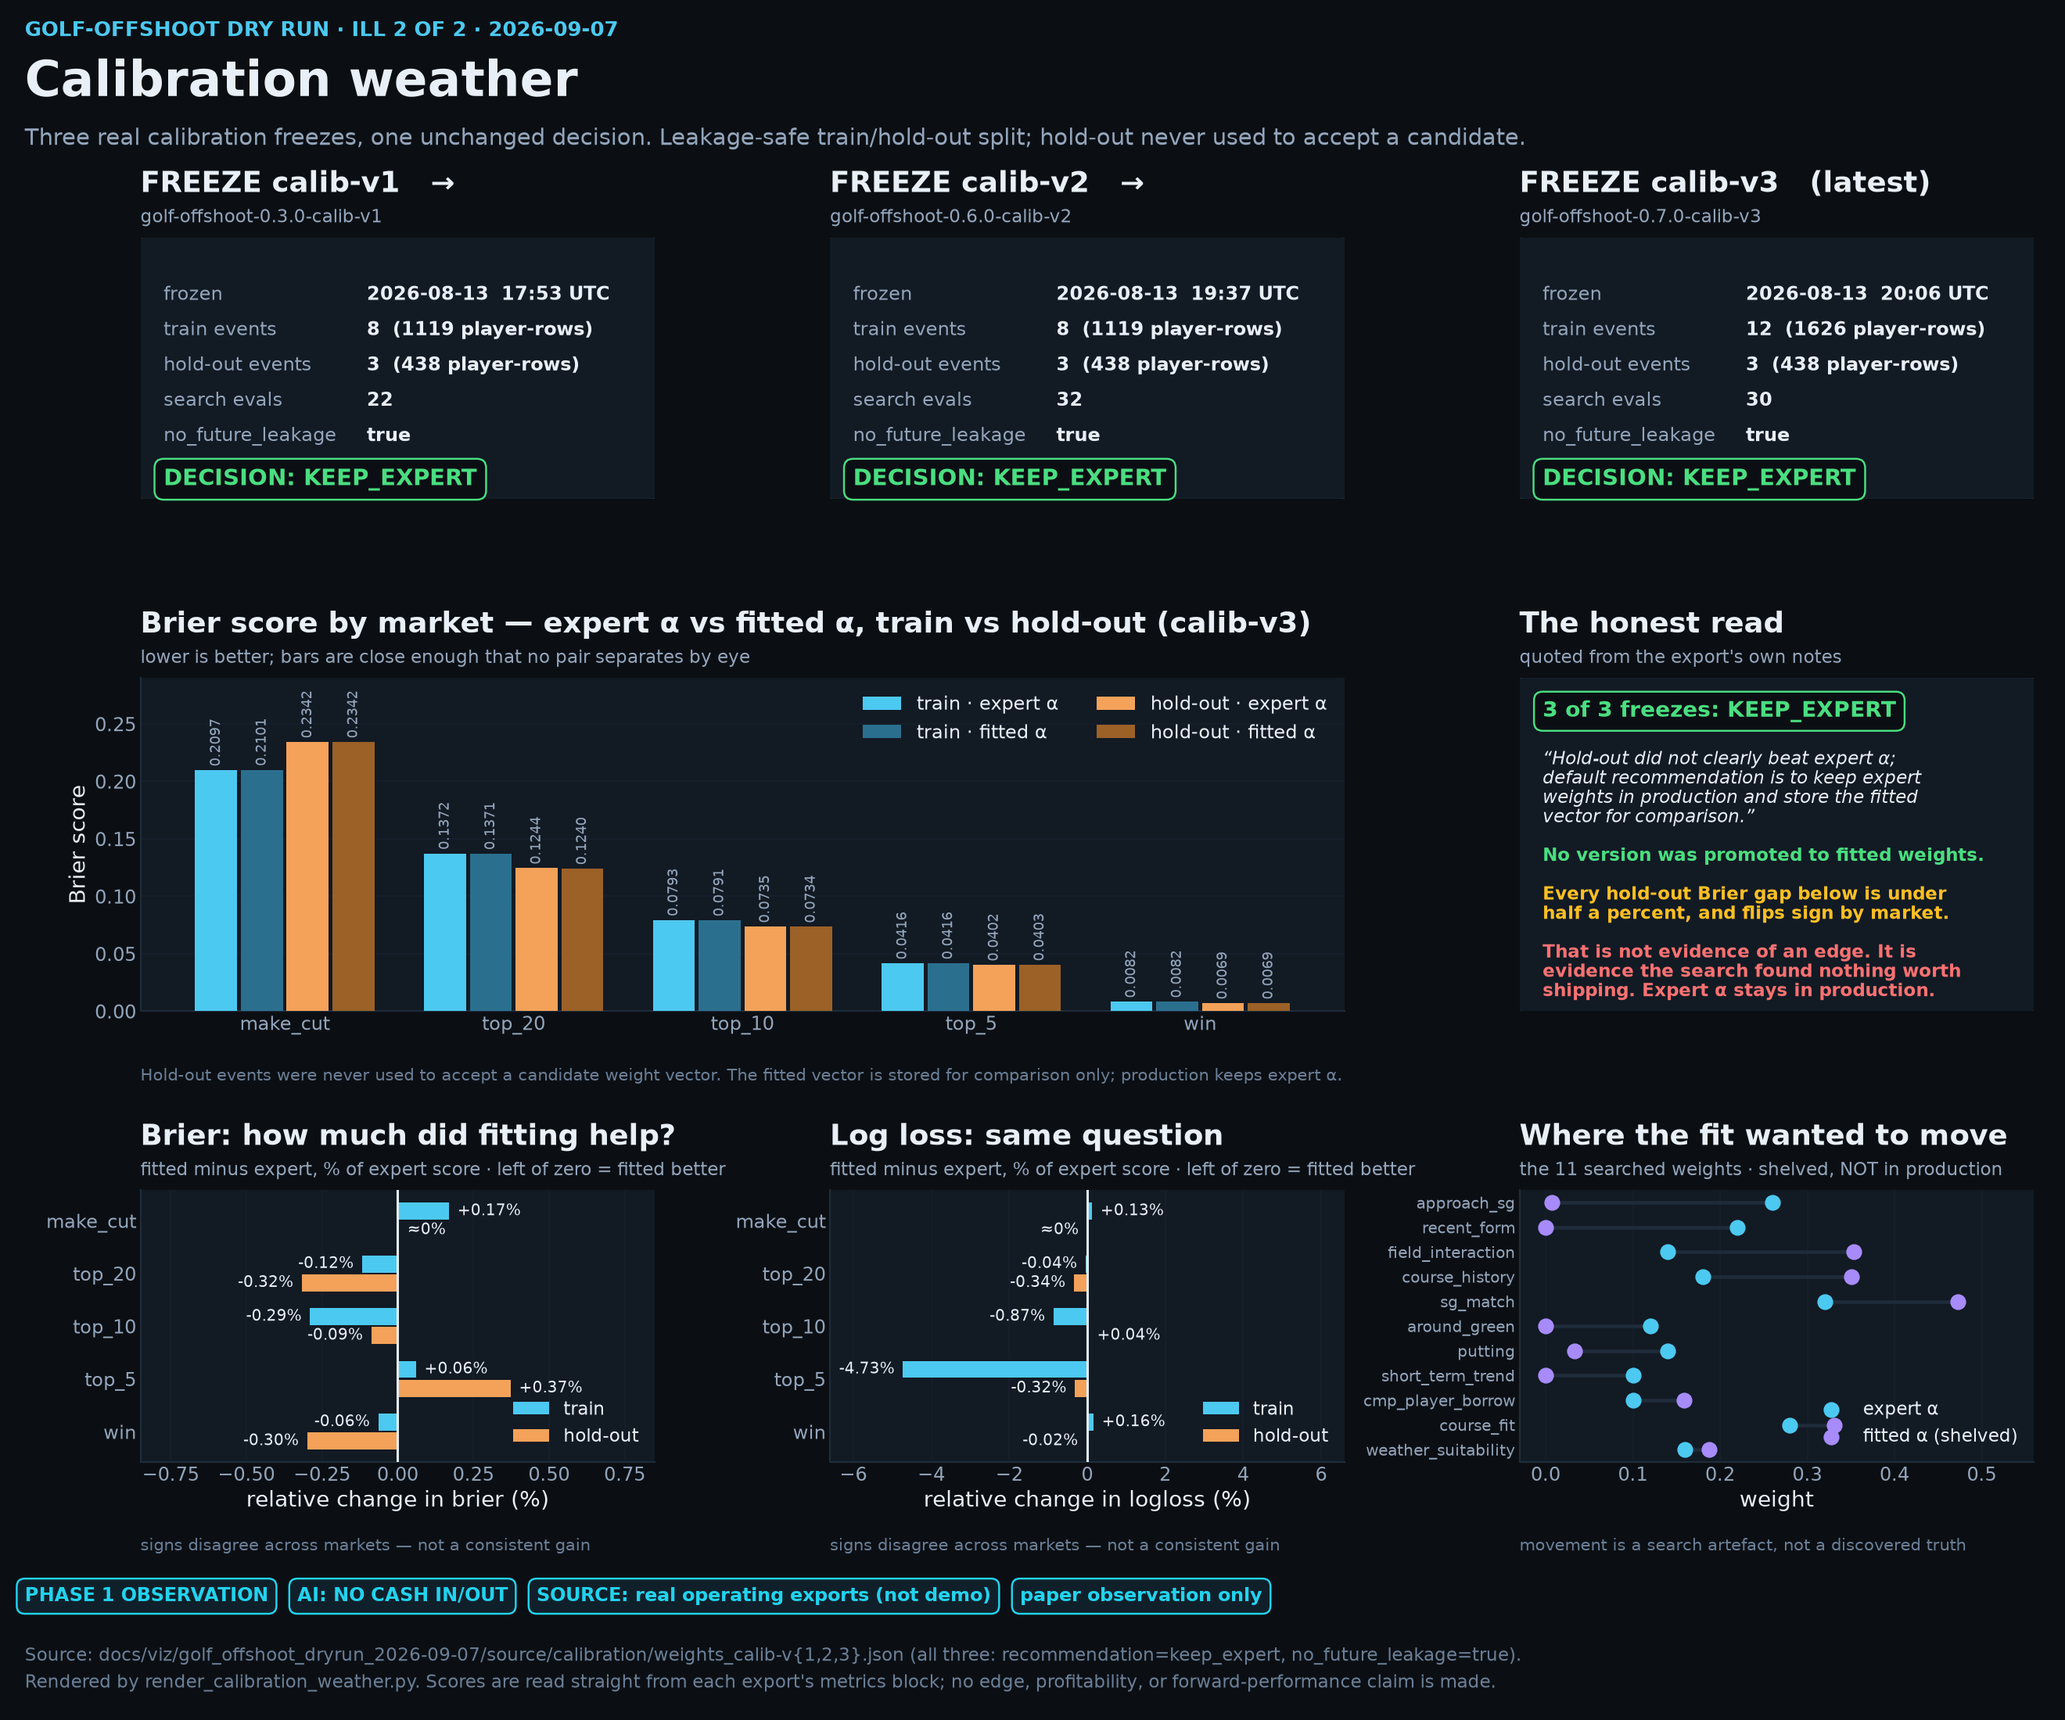
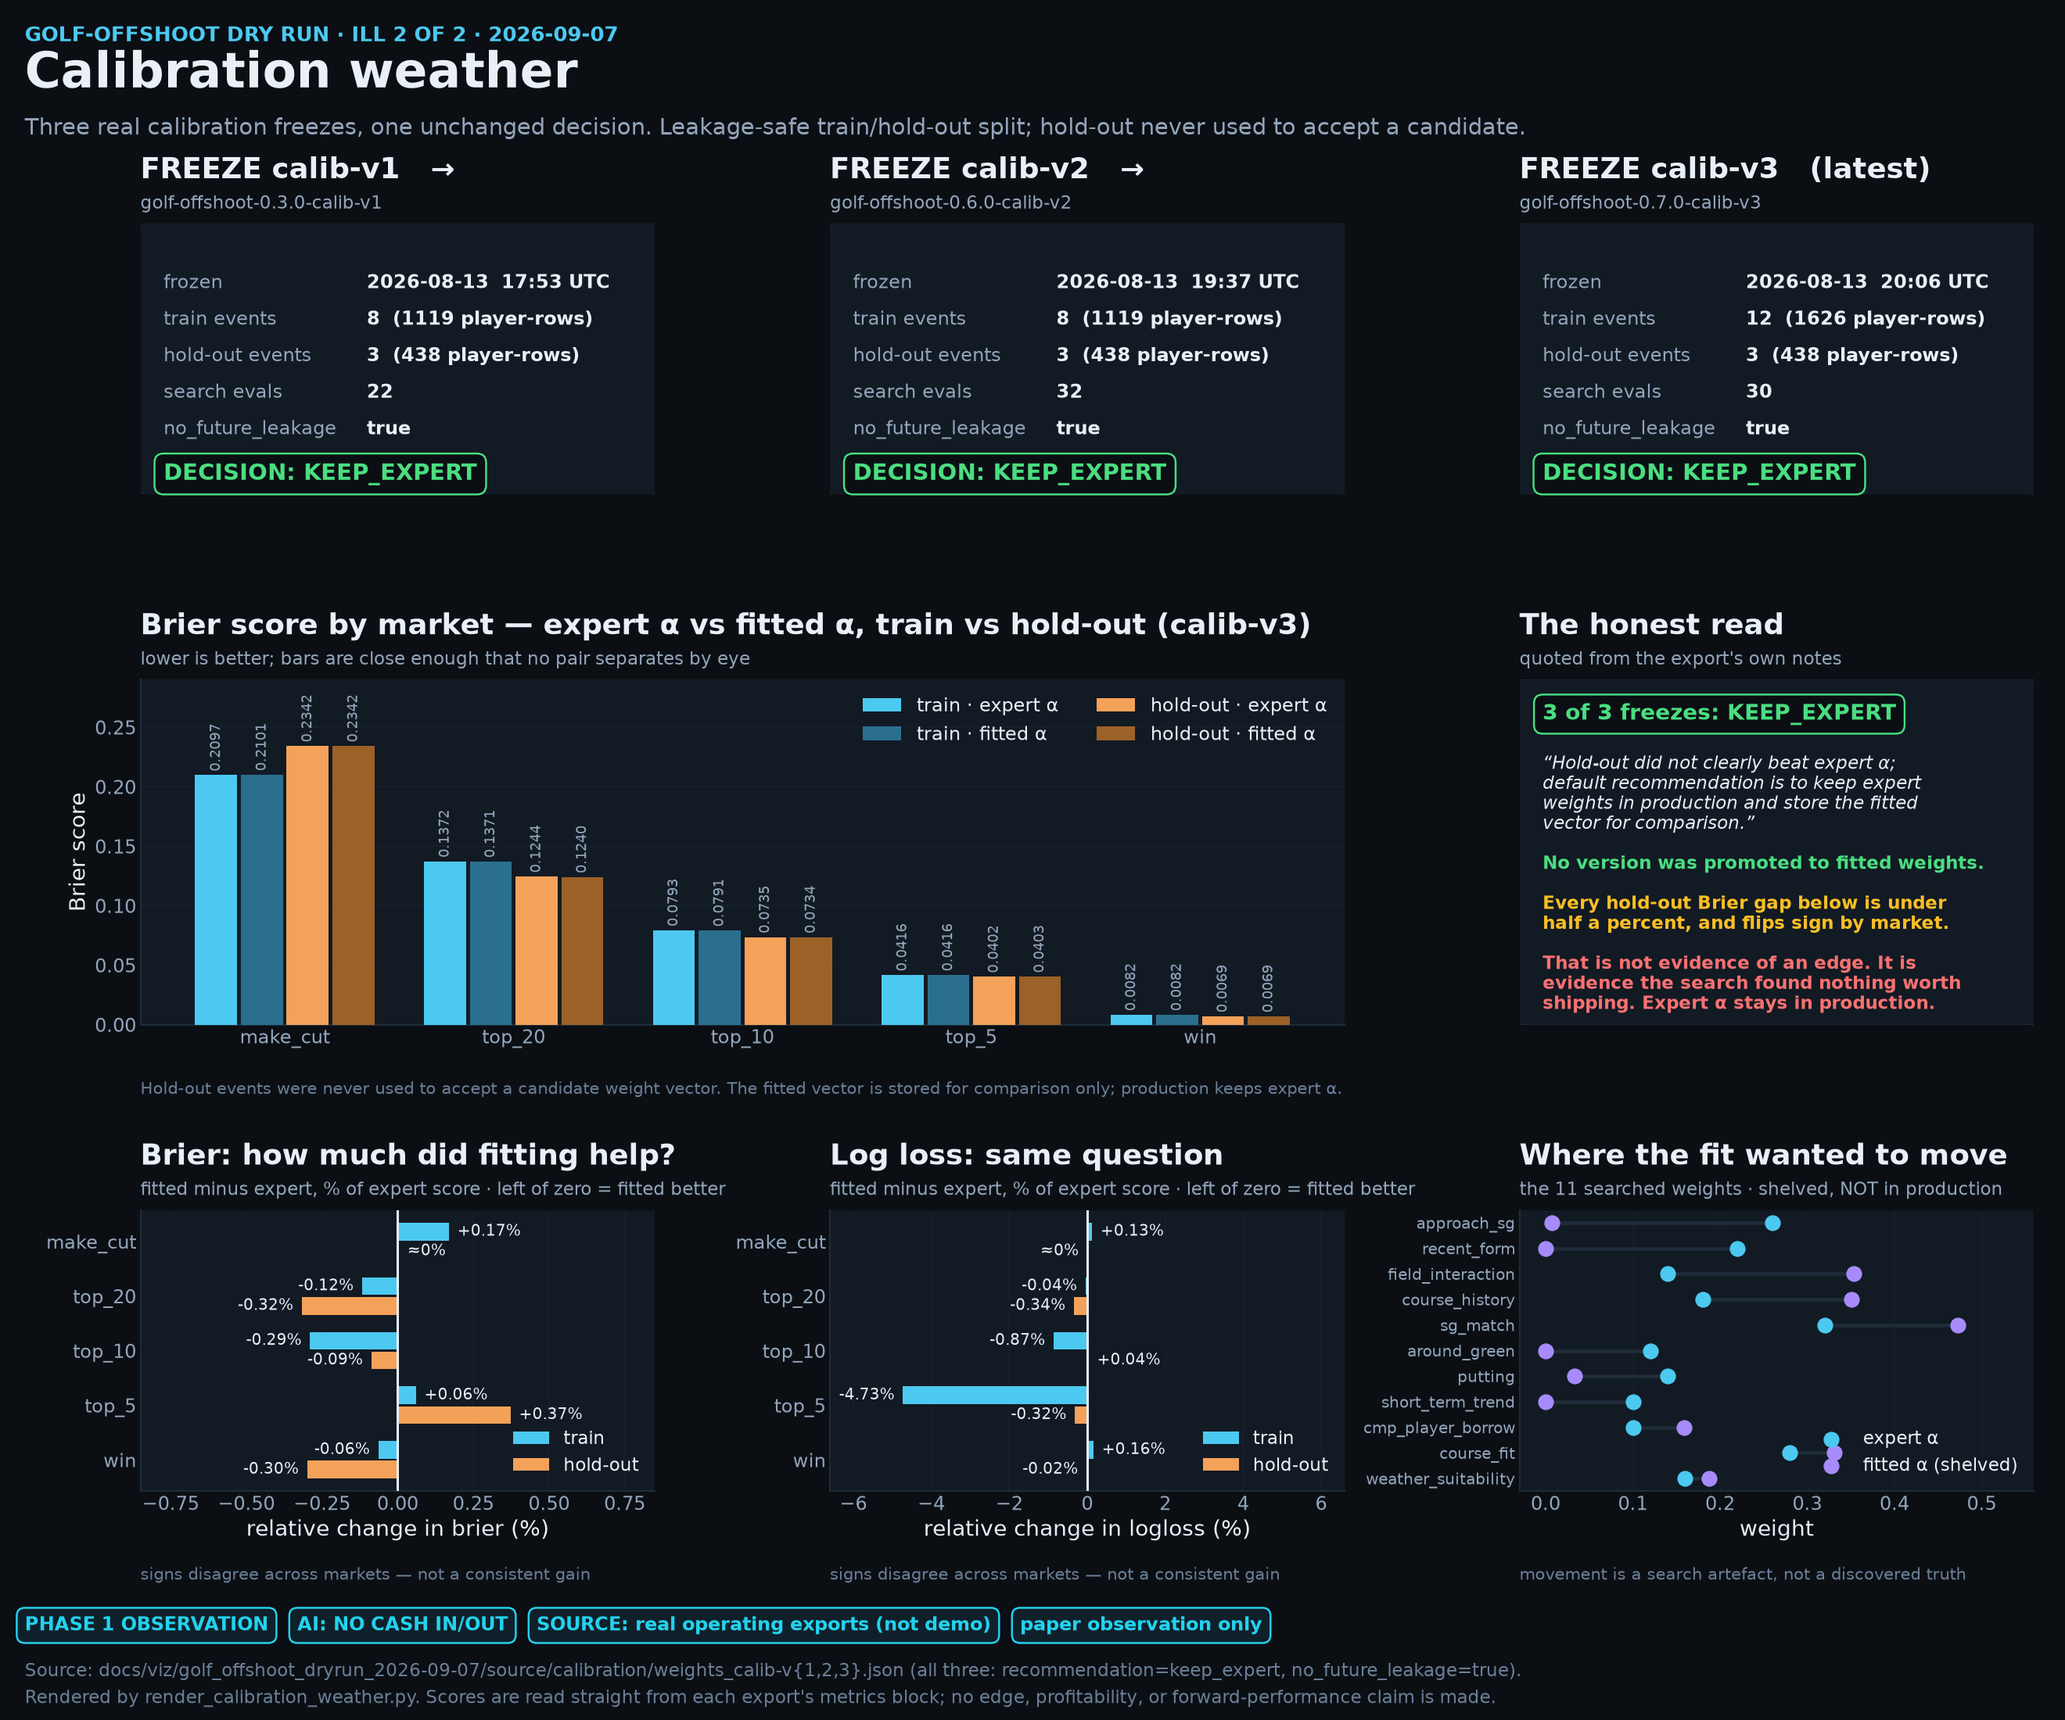
docs(viz): strengthen Ill 1 with observation cadence + action-kind panels
Ill 1 is the priority board, so it gains the two dimensions most likely to be
misread from the raw export: when the 162 rows were actually written (56 runs
clustered into tournament weeks, not a schedule), and the action-kind split.
The action panel states outright that the 52 exit rows are advised exits from
paper positions that were never placed, so they realised nothing - the same
claim the PENDING settlement badges make, at the point a reader would guess
otherwise.

Header, badge strip, and footer now position in inches rather than figure
fractions so the taller Ill 1 board and Ill 2 keep identical chrome.

diff --git a/docs/viz/golf_offshoot_dryrun_2026-09-07/render_shadow_honesty.py b/docs/viz/golf_offshoot_dryrun_2026-09-07/render_shadow_honesty.py
@@ -19,8 +19,10 @@ from __future__ import annotations
 
 import json
 from collections import Counter
+from datetime import datetime, timezone
 from pathlib import Path
 
+import matplotlib.dates as mdates
 import matplotlib.pyplot as plt
 import numpy as np
 
@@ -37,6 +39,8 @@ TOURNAMENT_ORDER = [
 ]
 
 MARKET_ORDER = ["win", "win_after_r1", "win_after_r2", "win_after_r3", "top_5", "top_10", "top_20"]
+
+ACTION_ORDER = ["new_bet", "exit", "add", "reallocate", "reduce"]
 
 MARKET_COLOR = {
     "win": kit.ACCENT,
@@ -154,6 +158,68 @@ def draw_modes(ax, rows):
         [kit.GOOD if m == "stay_selective" else kit.ACCENT_2 for m in order],
         total=len(rows),
         note="mode = advisor posture, not an instruction anyone followed",
+    )
+
+
+def parse_ts(value: str) -> datetime:
+    """Rows mix trailing Z with explicit offsets; normalise everything to UTC."""
+    return datetime.fromisoformat(value.replace("Z", "+00:00")).astimezone(timezone.utc)
+
+
+def draw_cadence(ax, rows):
+    kit.panel(
+        ax,
+        "When the observations were written",
+        "one dot per row, placed on its own timestamp · lanes are the three events",
+    )
+    lanes = {t: i for i, t in enumerate(reversed(TOURNAMENT_ORDER))}
+    rng = np.random.default_rng(7)
+    for market in MARKET_ORDER:
+        pts = [r for r in rows if r["market"] == market]
+        if not pts:
+            continue
+        ax.scatter(
+            [parse_ts(r["timestamp"]) for r in pts],
+            [lanes[r["tournament"]] + rng.uniform(-0.17, 0.17) for r in pts],
+            s=110,
+            alpha=0.8,
+            color=MARKET_COLOR[market],
+            edgecolors=kit.BG,
+            linewidths=0.9,
+            zorder=3,
+        )
+    ax.set_yticks(list(lanes.values()))
+    ax.set_yticklabels(["TOUR Champ.", "BMW", "FedEx St. Jude"])
+    ax.set_ylim(-0.6, len(lanes) - 0.4)
+    ax.xaxis.set_major_locator(mdates.DayLocator(interval=2))
+    ax.xaxis.set_major_formatter(mdates.DateFormatter("%b %d"))
+    ax.grid(True, axis="x", alpha=0.5, zorder=1)
+    ax.set_xlabel("observation timestamp (UTC)")
+    ax.annotate(
+        f"{len({r['run_id'] for r in rows})} runs over 17 days · clusters are tournament weeks, "
+        "not a fixed schedule · gaps are weeks with nothing worth writing down",
+        xy=(0, 0),
+        xycoords="axes fraction",
+        xytext=(0, -66),
+        textcoords="offset points",
+        fontsize=14,
+        color=kit.DIM,
+    )
+
+
+def draw_actions(ax, rows):
+    counts = Counter(r["action_kind"] for r in rows)
+    order = [a for a in ACTION_ORDER if counts[a]]
+    values = [counts[a] for a in order]
+    kit.panel(ax, "Action kind mix", "what each row was advising")
+    hbar(
+        ax,
+        order,
+        values,
+        [kit.ACCENT if a == "new_bet" else kit.PENDING if a == "exit" else kit.ACCENT_3 for a in order],
+        total=len(rows),
+        note="an 'exit' is an advised exit from a paper position that was\n"
+        "never placed — it is not a realised loss and not a settlement",
     )
 
 
@@ -357,17 +423,18 @@ def main() -> None:
     kit.apply_style()
     rows = load_rows()
 
-    fig = plt.figure(figsize=(24, 19))
+    height = 25.0
+    fig = plt.figure(figsize=(24, height))
     gs = fig.add_gridspec(
-        4,
+        5,
         3,
         left=0.082,
         right=0.985,
-        top=0.855,
-        bottom=0.115,
-        hspace=0.90,
+        top=1.0 - kit.HEADER_BLOCK_IN / height,
+        bottom=(kit.FOOTER_BLOCK_IN + 0.15) / height,
+        hspace=0.80,
         wspace=0.32,
-        height_ratios=[1.0, 1.35, 0.86, 0.90],
+        height_ratios=[1.0, 1.05, 1.30, 0.80, 0.84],
     )
 
     kit.header(
@@ -382,13 +449,16 @@ def main() -> None:
     draw_markets(fig.add_subplot(gs[0, 1]), rows)
     draw_modes(fig.add_subplot(gs[0, 2]), rows)
 
-    draw_spread(fig.add_subplot(gs[1, 0:2]), rows)
-    draw_gap(fig.add_subplot(gs[1, 2]), rows)
+    draw_cadence(fig.add_subplot(gs[1, 0:2]), rows)
+    draw_actions(fig.add_subplot(gs[1, 2]), rows)
 
-    draw_walls(fig.add_subplot(gs[2, 0:2]), rows)
-    draw_plain_english(fig.add_subplot(gs[2:4, 2]))
+    draw_spread(fig.add_subplot(gs[2, 0:2]), rows)
+    draw_gap(fig.add_subplot(gs[2, 2]), rows)
 
-    draw_pending(fig.add_subplot(gs[3, 0:2]))
+    draw_walls(fig.add_subplot(gs[3, 0:2]), rows)
+    draw_plain_english(fig.add_subplot(gs[3:5, 2]))
+
+    draw_pending(fig.add_subplot(gs[4, 0:2]))
 
     kit.badge_strip(fig)
     kit.footer(

diff --git a/docs/viz/golf_offshoot_dryrun_2026-09-07/render_kit.py b/docs/viz/golf_offshoot_dryrun_2026-09-07/render_kit.py
@@ -133,15 +133,30 @@ def chip(ax, x, y, label, color, *, fontsize=15, pad=0.34):
     )
 
 
+# Chrome is positioned in inches from the figure edge, not in figure fractions,
+# so boards of different heights get identical headers and badge strips.
+HEADER_BLOCK_IN = 2.60
+FOOTER_BLOCK_IN = 1.41
+
+
+def _from_top(fig, inches: float) -> float:
+    return 1.0 - inches / fig.get_figheight()
+
+
+def _from_bottom(fig, inches: float) -> float:
+    return inches / fig.get_figheight()
+
+
 def header(fig, kicker: str, title: str, standfirst: str) -> None:
-    fig.text(0.012, 0.988, kicker, fontsize=17, color=ACCENT, fontweight="bold", va="top")
-    fig.text(0.012, 0.966, title, fontsize=41, color=TEXT, fontweight="bold", va="top")
-    fig.text(0.012, 0.929, standfirst, fontsize=19, color=MUTED, va="top", linespacing=1.45)
+    fig.text(0.012, _from_top(fig, 0.30), kicker, fontsize=17, color=ACCENT, fontweight="bold", va="top")
+    fig.text(0.012, _from_top(fig, 0.58), title, fontsize=41, color=TEXT, fontweight="bold", va="top")
+    fig.text(0.012, _from_top(fig, 1.30), standfirst, fontsize=19, color=MUTED, va="top", linespacing=1.45)
 
 
-def badge_strip(fig, y: float = 0.072) -> None:
+def badge_strip(fig, y_in: float = 1.10) -> None:
     """The shared honesty badges. Identical on every board in this set."""
     x = 0.012
+    y = _from_bottom(fig, y_in)
     for label in BADGES:
         t = fig.text(
             x,
@@ -164,8 +179,16 @@ def badge_strip(fig, y: float = 0.072) -> None:
         x += bbox.width / fig.bbox.width + 0.014
 
 
-def footer(fig, lines: list[str], y: float = 0.045) -> None:
-    fig.text(0.012, y, "\n".join(lines), fontsize=15, color=DIM, va="top", linespacing=1.5)
+def footer(fig, lines: list[str], y_in: float = 0.72) -> None:
+    fig.text(
+        0.012,
+        _from_bottom(fig, y_in),
+        "\n".join(lines),
+        fontsize=15,
+        color=DIM,
+        va="top",
+        linespacing=1.5,
+    )
 
 
 def save(fig, path, min_px: int = 2400) -> tuple[int, int]:

diff --git a/docs/viz/golf_offshoot_dryrun_2026-09-07/render_calibration_weather.py b/docs/viz/golf_offshoot_dryrun_2026-09-07/render_calibration_weather.py
@@ -259,14 +259,16 @@ def main() -> None:
     recs = {v: calib[v]["recommendation"] for v in VERSIONS}
     assert set(recs.values()) == {"keep_expert"}, f"unexpected recommendations: {recs}"
 
-    fig = plt.figure(figsize=(24, 20))
+    height = 20.0
+    fig = plt.figure(figsize=(24, height))
     gs = fig.add_gridspec(
         3,
         3,
         left=0.068,
         right=0.985,
-        top=0.862,
-        bottom=0.150,
+        top=1.0 - kit.HEADER_BLOCK_IN / height,
+        # row 3 hangs a note ~1.25in below its axes, so the footer block needs clearance
+        bottom=(kit.FOOTER_BLOCK_IN + 1.25) / height,
         hspace=0.62,
         wspace=0.34,
         height_ratios=[1.02, 1.30, 1.06],

diff --git a/docs/viz/golf_offshoot_dryrun_2026-09-07/README.md b/docs/viz/golf_offshoot_dryrun_2026-09-07/README.md
@@ -8,22 +8,40 @@ recomputed from this directory alone.
 **Shared badges on both boards:**
 `PHASE 1 OBSERVATION` · `AI: NO CASH IN/OUT` · `SOURCE: real operating exports (not demo)` · `paper observation only`
 
+**Source path.** Both scripts read *only* from [`source/`](source/) in this directory.
+Neither one reads, requires, or inspects the live operating journal at
+`golf-offshoot/data/shadow/` — that path is the system's own working record and is
+none of a docs board's business. Nothing here renders conditionally on whether it
+exists.
+
 ---
 
 ## Ill 1 — Shadow honesty strip
 
 ![Shadow honesty strip](shadow_honesty_strip.png)
 
-`shadow_honesty_strip.png` (2640 × 2090 px) · rendered by
+`shadow_honesty_strip.png` (2640 × 2750 px) · rendered by
 [`render_shadow_honesty.py`](render_shadow_honesty.py) from
 [`source/shadow/advises.jsonl`](source/shadow/advises.jsonl).
 
 **Honesty caption.** 162 paper-observation rows written against a **live** sportsbook
 across three FedExCup playoff events (FedEx St. Jude → BMW → TOUR Championship,
-2026-08-13 → 2026-08-30). Every row carries `run_mode=live`,
-`paper_observation_only=true`, and `never_auto_bet=true`. "Live" describes the book
-the prices came from, not money at risk: nothing was staked, so there is nothing to
-settle. The advisory posture was `stay_selective` on 158 of 162 rows.
+2026-08-13 → 2026-08-30), from 56 runs covering 37 players. Every row carries
+`run_mode=live`, `paper_observation_only=true`, and `never_auto_bet=true`. "Live"
+describes the book the prices came from, not money at risk: nothing was staked, so
+there is nothing to settle. The advisory posture was `stay_selective` on 158 of 162
+rows.
+
+**An `exit` is not a loss.** 52 of the 162 rows have `action_kind=exit`, and many of
+those carry a negative `suggested_stake`. Read carelessly, that looks like a book of
+closed-out positions. It is not. Every exit is an *advised* exit from a paper position
+that was never placed, so it realised nothing — no loss, no gain, no settlement. The
+action-kind panel says so directly, because this is the single easiest thing on the
+board to misread.
+
+**Cadence is clustered, not scheduled.** The timeline panel places each row on its own
+timestamp. Observations bunch into tournament weeks and go quiet between them; the
+gaps are weeks with nothing worth writing down, not missing data.
 
 **Settlement columns are PENDING / join later.** `advises.jsonl` has no settle,
 outcome, or PnL field of any kind — no `settled_at`, `outcome`, `won/lost`, `payout`,
@@ -53,6 +71,11 @@ everywhere else.
 events), `calib-v2` (8), `calib-v3` (12, latest) — and all three landed on the same
 recommendation: **`keep_expert`**. All three record `no_future_leakage=true`, and the
 hold-out events were never used to accept a candidate weight vector.
+
+Reading all three freezes matters more than reading the latest one. A single
+`keep_expert` could be one unlucky search. Three in a row, across a train set that grew
+from 8 events to 12 and a search that ran 22 → 32 → 30 evaluations, is a pattern: the
+fit keeps failing to beat the expert prior even as the panel gets stronger.
 
 **The hold-out did not clearly beat expert α.** That sentence is quoted from the
 exports' own notes, and the score panels show why. Expert and fitted Brier scores sit
@@ -97,10 +120,19 @@ python render_calibration_weather.py
 ```
 
 Both scripts read only from `source/`, print the pixel dimensions they wrote, and
-assert the honesty invariants they depend on (all three calibration freezes must still
-read `keep_expert`; the v3 hold-out note must still begin "Hold-out did not clearly
-beat expert"). If an export is ever replaced with one that contradicts a caption, the
-render fails instead of quietly redrawing a false claim.
+assert the honesty invariant each board's captions depend on:
+
+- `render_shadow_honesty.py` fails if any settlement-shaped field (`settle`, `outcome`,
+  `result`, `payout`, `pnl`, `profit`, `clv`, `roi`, `won`, `lost`) ever appears in
+  `advises.jsonl`, because the `PENDING / join later` badges would then be a lie.
+- `render_calibration_weather.py` fails if any of the three freezes stops reading
+  `keep_expert`, or if the v3 hold-out note stops beginning "Hold-out did not clearly
+  beat expert".
+
+If an export is ever replaced with one that contradicts a caption, the render fails
+instead of quietly redrawing a false claim. Note that these are assertions about the
+*source files in this directory* — neither script branches on the presence or absence
+of anything outside `source/`.
 
 Shared style and the badge strip live in [`render_kit.py`](render_kit.py), so both
 boards carry byte-identical badges.
